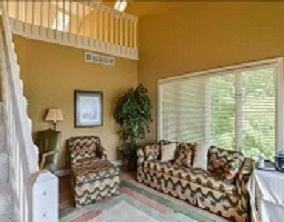
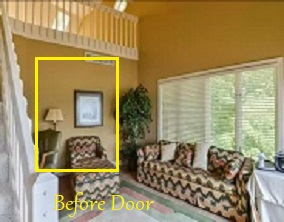
add details to images and fix footer

Changed region(s): [[0.1127, 0.2432, 0.4507, 0.7838], [0.169, 0.8649, 0.5634, 1.0]]

diff --git a/gallery.html b/gallery.html
@@ -25,47 +25,71 @@
 		<span class="tagline">Custom work done localy</span>
 		
 	</div><!--/.banner-->
+<h1>Maverick's Home</h1>
 
-  <div class="gallery">
-    
-		<h1>Maverick's Home</h1>
-		<img src="Sunroom.jpg" alt="Sunroom">
-    <figcaption>Sunroom view before door</figcaption>
-    
-    <img src="bedroom_view.jpg" alt="Sunroom">
-    <figcaption>Bedroom view before door</figcaption>
-    
-    <img src="relocate_vent_pipe.jpg" alt="Sunroom">
-    <figcaption>Relocate Vent pipe.</figcaption>
-    
-    <img src="door_cutout.jpeg" alt="Sunroom">
-    <figcaption>Door cutout.</figcaption>
-    
-    <img src="relocation_of_pipe.jpg" alt="Sunroom">
-    <figcaption>Relocation of pipe and installation of door.</figcaption>
+  <div class="row">
+  
+    <div class="column">
+      <img src="Sunroom.jpg" alt="Sunroom">
+      <figcaption>Sunroom view before door</figcaption>
+    </div>
 
-    <img src="need help.jpeg" alt="Sunroom">
-    <figcaption>Aww Maverick, always wanting to help.</figcaption>
+    <div class="column">
+      <img src="bedroom_view.jpg" alt="Sunroom">
+      <figcaption>Bedroom view before door</figcaption>
+    </div>
 
-    <img src="drywall_done.jpg" alt="Sunroom">
-    <figcaption>Drywall done.</figcaption>
-    
-    <img src="DSCN0750.JPG" alt="Sunroom">
-    <figcaption>Custom Trim work added</figcaption>
-    
-    <img src="closeup.JPG" alt="Sunroom">
-    <figcaption>Close-Up of CustomTtrim.</figcaption>
-        
-    <img src="finished.jpeg" alt="Sunroom">
-		<figcaption>Finished view from bedroom.</figcaption>
-		
-	</div>
+    <div class="column">
+      <img src="relocate_vent_pipe.jpg" alt="Sunroom">
+      <figcaption>Relocate Vent pipe.</figcaption>
+    </div>
+
+    <div class="column">
+      <img src="door_cutout.jpeg" alt="Sunroom">
+      <figcaption>Door cutout.</figcaption>
+    </div>
+  </div>
+
+  <div class="row">
+    <div class="column">
+      <img src="relocation_of_pipe.jpg" alt="Sunroom">
+      <figcaption>Relocation of pipe and installation of door.</figcaption>
+    </div>
+
+    <div class="column">
+      <img src="need_help.jpeg" alt="Sunroom">
+      <figcaption>Before trim added to bedroom side.  Aww Maverick, always wanting to help.</figcaption>
+    </div>
+
+    <div class="column">
+      <img src="drywall_done.jpg" alt="Sunroom">
+      <figcaption>Drywall done.</figcaption>
+    </div>
+
+    <div class="column">
+      <img src="trim_added.JPG" alt="Sunroom">
+      <figcaption>Custom Trim work added</figcaption>
+    </div>
+  </div>
+
+  <div class="row">
+    <div class="column">
+      <img src="closeup.JPG" alt="Sunroom">
+      <figcaption>Close-Up of CustomTtrim.</figcaption>
+    </div>
+
+    <div class="column">
+      <img src="finished.jpeg" alt="Sunroom">
+      <figcaption>Finished view from bedroom.</figcaption>
+    </div>
+  </div>
 
 
 	
 	<footer class="main-footer">
-		<span>&copy;2020 Schorktails</span>
-		<a href="https://twitter.com/intent/tweet?button_hashtag=schorktails&ref_src=twsrc%5Etfw" class="twitter-hashtag-button" data-show-count="false"></a><script async src="https://platform.twitter.com/widgets.js" charset="utf-8"></script>
+    <span>&copy;2020 Schorktails</span>
+    <br>
+		<a href="https://twitter.com/home" class="twitter-hashtag-button" data-show-count="false"></a><script async src="https://platform.twitter.com/widgets.js" charset="utf-8"></script>
 	</footer>
 	
 </body>

diff --git a/base.css b/base.css
@@ -86,7 +86,7 @@ a {
 	text-shadow: 2px 2px black;
 	padding: 3.2em 0;
 	margin-bottom: 48px;
-	background-image: url(https://imageprocessor.digital.vistaprint.com/maxWidth/2000/progressive/https://assets.digital.vistaprint.com/2752957/backgrounds/background1.jpg);
+	background-image: url("background.jpg");
     background-position: 50% 50%;
     background-size: cover;
     background-color: transparent;
@@ -100,19 +100,26 @@ form {
 	border-radius: 8px;
   }
 
-.col {
+.row {
 	padding: 1em;
 	background: wheat;
 	border-radius: .35em;
 	margin: 0 .5em .8em;
+	float: left;
+	width: 100%;
 }
 
-.gallery {
-	padding: 1em;
-	background: wheat;
-	border-radius: .35em;
-	margin: 0 .5em .8em;
-}
+.column {
+	float: left;
+	
+	padding: 5px;
+  }
+
+.row::after {
+	content: "";
+	clear: both;
+	display: table;
+  }
 
 img[src*="Donnelley"] {
 	margin: 4px;

diff --git a/SCC.html b/SCC.html
@@ -48,7 +48,8 @@
 	
 	<footer class="main-footer">
 		<span>&copy;2020 Schorktails</span>
-		<a href="https://twitter.com/intent/tweet?button_hashtag=schorktails&ref_src=twsrc%5Etfw" class="twitter-hashtag-button" data-show-count="false"></a><script async src="https://platform.twitter.com/widgets.js" charset="utf-8"></script>
+		<br>
+			<a href="https://twitter.com/home" class="twitter-hashtag-button" data-show-count="false"></a><script async src="https://platform.twitter.com/widgets.js" charset="utf-8"></script>
 	</footer>
 	
 </body>

diff --git a/contacts.html b/contacts.html
@@ -49,7 +49,8 @@
 	
 	<footer class="main-footer">
 		<span>&copy;2020 Schorktails</span>
-		<a href="https://twitter.com/intent/tweet?button_hashtag=schorktails&ref_src=twsrc%5Etfw" class="twitter-hashtag-button" data-show-count="false"></a><script async src="https://platform.twitter.com/widgets.js" charset="utf-8"></script>
+		<br>
+			<a href="https://twitter.com/home" class="twitter-hashtag-button" data-show-count="false"></a><script async src="https://platform.twitter.com/widgets.js" charset="utf-8"></script>
 	</footer>
 	
 </body>

diff --git a/fun.html b/fun.html
@@ -52,7 +52,8 @@
 
 	<footer class="main-footer">
 		<span>&copy;2020 Schorktails</span>
-		<a href="https://twitter.com/intent/tweet?button_hashtag=schorktails&ref_src=twsrc%5Etfw" class="twitter-hashtag-button" data-show-count="false"></a><script async src="https://platform.twitter.com/widgets.js" charset="utf-8"></script>
+		<br>
+			<a href="https://twitter.com/home" class="twitter-hashtag-button" data-show-count="false"></a><script async src="https://platform.twitter.com/widgets.js" charset="utf-8"></script>
 	</footer>
 	
 </body>
